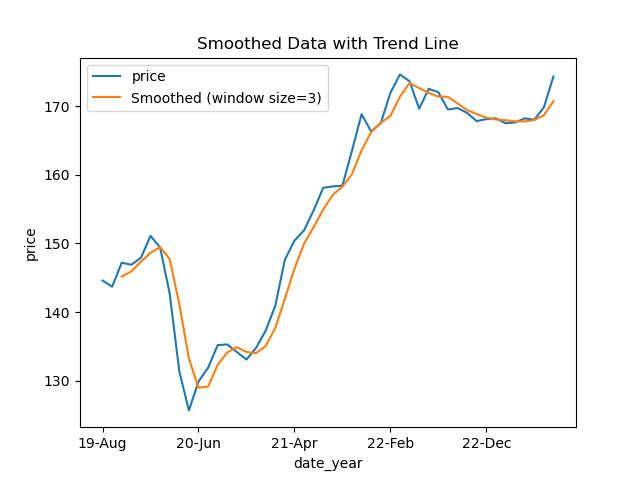
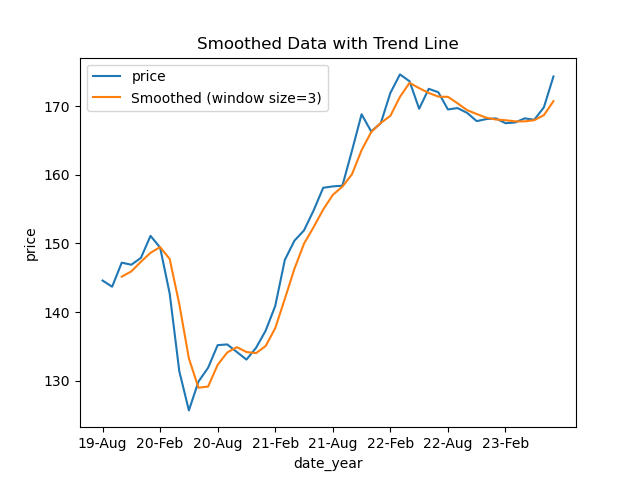
Savitzky-Golay法によるpeak検出法。谷を全て記述させた。

Changed region(s): [[0.2188, 0.9062, 0.5625, 0.9375], [0.6562, 0.9062, 0.8438, 0.9375]]

diff --git a/createPlot.py b/createPlot.py
@@ -1,7 +1,7 @@
 import matplotlib.pyplot as plt
 import pandas as pd
 import numpy as np
-from scipy.signal import argrelextrema
+from scipy.signal import argrelextrema,find_peaks, savgol_filter
 
 def describe_difference(num_before: int, num_after: int) -> str:
     
@@ -68,7 +68,7 @@ plt.ylabel('price')
 plt.legend()
 
 # X軸のメモリを10個飛ばしで表示
-x_ticks = df['date_year'][::10]
+x_ticks = df['date_year'][::6]
 plt.xticks(x_ticks)
 
 # ピーク（山）と谷のインデックスを取得
@@ -76,12 +76,13 @@ peaks = argrelextrema(smoothed_data.values, comparator=lambda x, y: x > y, order
 valleys = argrelextrema(smoothed_data.values, comparator=lambda x, y: x < y, order=window_size)[0]
 
 # 始点と終点を含む谷と山の値をリストにまとめる
-start_point = smoothed_data.iloc[0]
-end_point = smoothed_data.iloc[-1]
-peaks_values = [smoothed_data.iloc[i] for i in peaks]
-valleys_values = [smoothed_data.iloc[i] for i in valleys]
+start_point = (df['date_year'].iloc[0], smoothed_data.iloc[0])
+end_point = (df['date_year'].iloc[-1], smoothed_data.iloc[-1])
+peaks_values = [(df['date_year'].iloc[i], smoothed_data.iloc[i]) for i in peaks]
+valleys_values = [(df['date_year'].iloc[i], smoothed_data.iloc[i]) for i in valleys]
 
 # 結果を表示
+print("argrelextremaを用いたpeak検出法")
 print("始点:", start_point)
 print("終点:", end_point)
 print("山の値:", peaks_values)
@@ -91,6 +92,44 @@ print("谷の値:", valleys_values)
 output_file_simple_path = 'static/output_graph_simple.png'  # 保存するファイルのパス
 plt.savefig(output_file_simple_path)
 
+# データをNumPyの配列に変換
+x_values = df['date_year'].values
+y_values = df['price'].values
+
+# データをスムージングするためにSavitzky-Golayフィルタを適用
+window_size = 7  # ウィンドウサイズ（調整が必要な場合は変更してください）
+order = 3  # 多項式の次数（調整が必要な場合は変更してください）
+smoothed_data = savgol_filter(y_values, window_size, order)
+
+# グラフの描画
+plt.plot(x_values, smoothed_data, label=f'Smoothed (Savitzky-Golay)')
+plt.title('Smoothed Data with Savitzky-Golay Filter')
+plt.xlabel('date_year')
+plt.ylabel('price')
+plt.legend()
+
+x_ticks = df['date_year'][::6]
+plt.xticks(x_ticks)
+
+# Savitzky-Golay法を使用してピークを検出
+peaks, _ = find_peaks(smoothed_data, height=0)  # heightはピークとみなす閾値（調整が必要な場合は変更してください）
+prominence_threshold = 0.1
+valleys_prominence, _ = find_peaks(-smoothed_data, prominence=prominence_threshold)  # ここでは prominence パラメータを使って、ピークと認識するための相対的な高さの閾値を設定しています。ただし、これはデータの特性によりますので、具体的なデータに合わせて調整
+
+start_point = (x_values[0], smoothed_data[0])
+end_point = (x_values[-1], smoothed_data[-1])
+peaks_data = [(x_values[i], smoothed_data[i]) for i in peaks]
+valleys_data = [(x_values[i], smoothed_data[i]) for i in valleys]
+
+
+print("Savitzky-Golay法を用いたpeak検出法")
+print("始点:", start_point)
+print("終点:", end_point)
+print("山の値と位置:", peaks_data)
+print("谷の値と位置:", valleys_data)
+
+output_file_path = 'static/output_graph_savitzky_golay.png'  # 保存するファイルのパス
+plt.savefig(output_file_path)
 
 # グラフの表示
 # plt.show()
